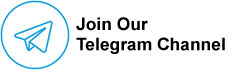
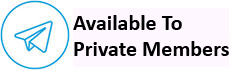
bug fixes

Changed region(s): [[0.3004, 0.5143, 0.9914, 0.8], [0.3004, 0.2, 0.7811, 0.4571]]

diff --git a/application/views/private_member.php b/application/views/private_member.php
@@ -17,13 +17,13 @@ $show_member[$show] = 1;
             <div class="persection" id="vipsignals">
                 <h1>VIP Signals & Alerts</h1>
                 <p>
-                    ICOSouq specialize in providing you complete analysis advice on how to succeed as a trader. As a valued member you will have access our Signal Channel and Private Chat Room. Our technical analysis guide is a collection of years experience expressed in an easy to understand fashion.
+                    ICOSouq specialize in providing you complete analysis advice on how to succeed as a trader. As a valued member you will have access to our Telegram Signal Channel and Private Chat Room. Our technical analysis guide is a collection of years of experience expressed in an easy to understand format.
                 </p>
                 <p>
                     Members are equipped to complete their own trading calls within a matter of days or weeks. With the community always available to debate price charts, trends and cryptocurrency news, you will always have a helping hand as you learn the ropes.
                 </p>
                 <p>
-                    Our VIP Signals is paid for service, with limited number of places available each month.
+                    Our VIP Signals is a paid for service, with limited number of places available each month.
                     To express your interest in joining, <a href="<?php echo base_url(); ?>welcome/contact_us">contact us</a>.
                 </p>
                 <div class="backbutton">
@@ -41,10 +41,10 @@ $show_member[$show] = 1;
         <div class="persection" id="icoanalysis">
             <h1>ICO Analysis + Ratings</h1>
             <p>
-                ICOSouq provides to our site visitors a shortlist of current and upcoming ICOs, however our private members will in addition will have access to a detailed assesment and weighting of key success criteria and factors.
+                ICOSouq provides our site visitors a shortlist of current and upcoming ICOs, our private members will in addition have access to a detailed assesment and weighting of key success criteria and factors.
             </p>
             <p>
-                This includes quantified assessment of ICO supply, price, team experience, phase of implementation, security, and bonus and other key drivers.            </p>
+                This includes quantified assessment of ICO supply, price, team experience, phase of implementation, security, token bonus and other key drivers.            </p>
             <p>
                 To express your interest in joining, <a href="<?php echo base_url(); ?>welcome/contact_us">contact us</a>.
             </p>
@@ -57,9 +57,9 @@ $show_member[$show] = 1;
         </div>
 
         <div class="persection" id="cryptocrash">
-            <h1>Crypto Crash Course</h1>
+            <h1>ICO Souq Consierge</h1>
             <p>
-                Based in Dubai, ICOSouq provides a tailored 1:1 in person consierge service to assit in setting up high networth individual accounts. This includes everything you need to know from how to buy cryptocurrencies and bitcoin to investing in the most thought after ICOs and managing your portfolio securely.
+                Based in Dubai, ICOSouq provides a tailored 1:1 in person consierge service to assit in setting up high networth individual accounts. This includes everything you need to know from how to buy cryptocurrencies and bitcoin to investing in the most sought after ICOs and managing your portfolio securely.
             </p>
             <p>
                 To express your interest in enrolling, <a href="<?php echo base_url(); ?>welcome/contact_us">contact us</a>.
@@ -73,7 +73,7 @@ $show_member[$show] = 1;
             <div class="persection" id="vipevents">
                 <h1>VIP Events Calendar</h1>
                 <p>
-                    Every quarter, ICOSouq hosts a private event for our members to meet and network at disclosed locations with speacial guest speakers and crypto-made millionairs.
+                    Every annual quarter, ICOSouq hosts a private event for our members to meet and network at disclosed locations with speacial guest speakers and crypto-made millionairs.
                 </p>
                 <p>
                     To express your interest in joining our next event, <a href="<?php echo base_url(); ?>welcome/contact_us">contact us</a>.

diff --git a/application/views/footer.php b/application/views/footer.php
@@ -1,7 +1,7 @@
 
 <div class='row footer-logo footer-center'>
     <a href='https://www.instagram.com/ICO.Souq/' target='_blank'><img src='<?php echo base_url(); ?>assets/icosouq/images/instagram.jpg' style='margin:10px;' border='0'></a>
-    <a href='https://t.me/icosouq' target='_blank'><img src='<?php echo base_url(); ?>assets/icosouq/images/telegram.jpg' style='margin:10px;' border='0'></a>
+    <img src='<?php echo base_url(); ?>assets/icosouq/images/telegram.jpg' style='margin:10px;' border='0'>
 </div>
 
 <div class='row footer-div'>
@@ -27,7 +27,7 @@
 
             <div class='col-xs-6 col-sm-4 col-md-3 footercol'>
                 <h4 class='footer-title'>Social</h4>
-                <p class='footer-menu-link'><a href='https://t.me/icosouq'  target='_blank'><span class='footer-menu-link'>Telegram</a></p>
+                <!--<p class='footer-menu-link'><a href='https://t.me/icosouq'  target='_blank'><span class='footer-menu-link'>Telegram</a></p>-->
                 <p class='footer-menu-link'><a href='https://www.instagram.com/ICO.Souq/'  target='_blank'><span class='footer-menu-link'>Instagram</a></p>
             </div>
         </div>

diff --git a/application/views/footer2.php b/application/views/footer2.php
@@ -24,7 +24,7 @@
 
                 <div class='col-xs-6 col-sm-4 col-md-3 footercol'>
                     <h4 class='footer-title'>Social</h4>
-                    <p class='footer-menu-link'><a href='https://t.me/icosouq'  target='_blank'><span class='footer-menu-link'>Telegram</a></p>
+                    <!--<p class='footer-menu-link'><a href='https://t.me/icosouq'  target='_blank'><span class='footer-menu-link'>Telegram</a></p>-->
                     <p class='footer-menu-link'><a href='https://www.instagram.com/ICO.Souq/'  target='_blank'><span class='footer-menu-link'>Instagram</a></p>
                 </div>
 

diff --git a/application/views/privacy.php b/application/views/privacy.php
@@ -4,7 +4,8 @@
     <div class="col-xs-12">
 
         <div >
-            <h2>Privacy policy</h2>
+            <br>
+            <h1>Privacy policy</h1>
             <p>
                 Your privacy is critically important to us. At ICOSouq, we have a few fundamental principles:
                 - We don’t share your personal information with anyone except to comply with the law, develop our products, or protect our rights.

diff --git a/application/views/terms_and_condition.php b/application/views/terms_and_condition.php
@@ -4,7 +4,8 @@
     <div class="col-xs-12">
 
         <div >
-            <h2>Terms and Conditions</h2>
+            <br>
+            <h1>Terms and Conditions</h1>
             <p>
                 Please read the Terms and Conditions (“Terms”, “Terms and Conditions”) before using the ICOSouq.com website (the “Service”, “us”, “we”, or “our”).
             </p>

diff --git a/application/views/news.php b/application/views/news.php
@@ -3,7 +3,7 @@
 
     <div class="row innerpage" >
         <div class="col-xs-12">
-            <h1 class="title">Bitcoin News</h1>
+            <h1 class="title">Crypto News</h1>
         </div>
 
 
